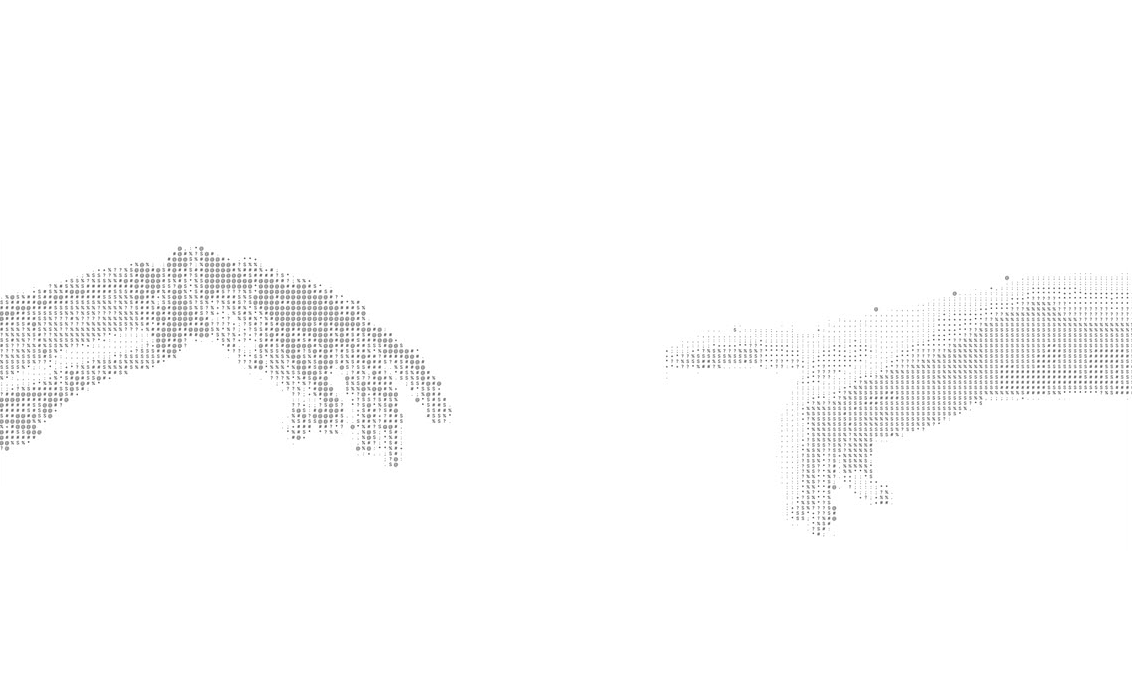
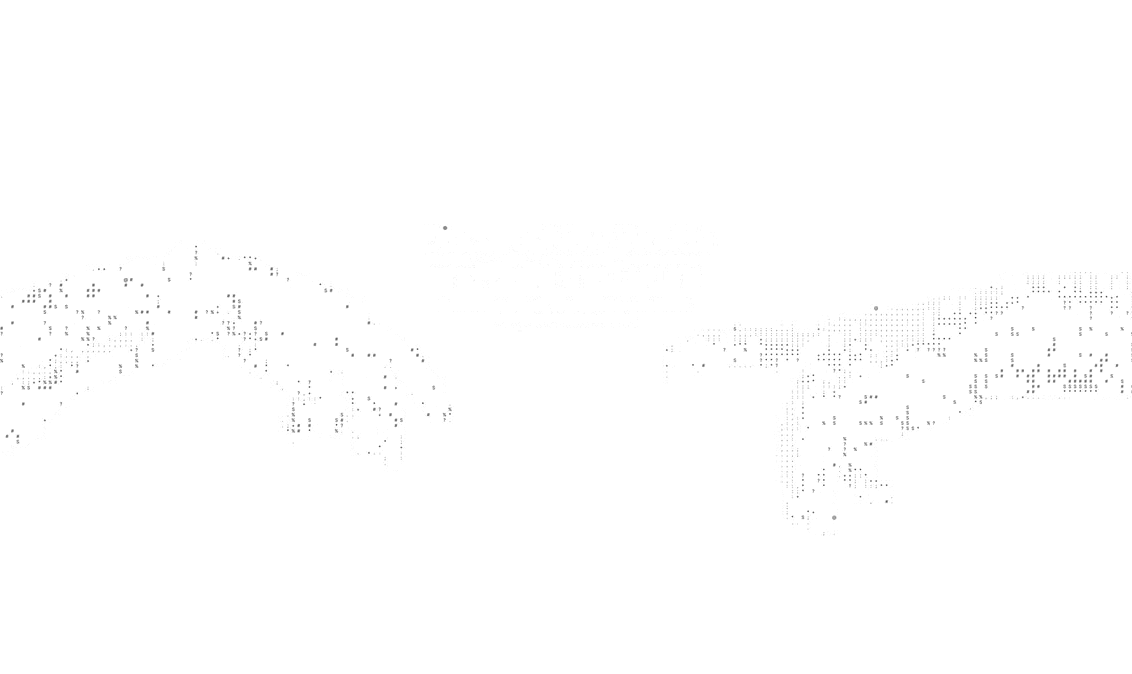
Fix hero artwork extraction and full-bleed placement

diff --git a/components/LandingHero.module.css b/components/LandingHero.module.css
@@ -26,8 +26,7 @@
   background-image: url('/images/claimtrail-hero-artwork.png');
   background-size: cover;
   background-repeat: no-repeat;
-  background-position: center;
-  opacity: 0.5;
+  background-position: center 48%;
 }
 
 /* A quiet clearing in the map, not a surface behind the heading. */
@@ -36,7 +35,7 @@
   z-index: -1;
   inset: 0;
   pointer-events: none;
-  background: radial-gradient(ellipse 48% 48% at 50% 48%, var(--landing-background) 30%, transparent 100%);
+  background: radial-gradient(ellipse 42% 40% at 50% 48%, var(--landing-background) 18%, transparent 100%);
 }
 
 .header {
@@ -172,8 +171,9 @@
   .mobileMenu .cta { margin-top: 8px; }
   .hero { padding: 100px 20px; }
   .supporting { max-width: 340px; margin-top: 22px; }
-  .map { background-position: 52% center; opacity: 0.36; }
-  .readability { background: radial-gradient(ellipse 90% 38% at 50% 48%, var(--landing-background) 25%, transparent 100%); }
+  /* Keep the whole map legible in portrait instead of magnifying a centre slice. */
+  .map { background-size: 126% auto; background-position: center 50%; }
+  .readability { background: radial-gradient(ellipse 94% 28% at 50% 48%, var(--landing-background) 28%, transparent 100%); }
 }
 
 @media (prefers-reduced-motion: reduce) { .cta { transition: none; } }

diff --git a/scripts/extract-hero-artwork.py b/scripts/extract-hero-artwork.py
@@ -1,35 +1,50 @@
-"""Extract the supplied reference artwork without synthesizing or redrawing dots.
+"""Extract the reference's dotted world map as a reusable background asset.
 
 Usage: python scripts/extract-hero-artwork.py path/to/reference.jpg
-Requires Pillow; used only for asset preparation, not by the application.
+Requires Pillow, NumPy and OpenCV; used only for asset preparation, not by the app.
+
+The reference is a screenshot containing a navbar, headline, button and footer.
+Its map is a field of small, mostly light dots. Connected-component filtering
+keeps those dots, drops lettering and controls, and leaves the original dot
+positions, texture, resolution and map geometry untouched. No dots are drawn.
 """
 
 from pathlib import Path
 import sys
-from PIL import Image, ImageDraw
 
+import cv2
+import numpy as np
+from PIL import Image
 
-source = Image.open(sys.argv[1]).convert("RGB")
+source = Image.open(sys.argv[1]).convert("L")
 if source.size != (1199, 781):
     raise SystemExit("Expected the original 1199 x 781 reference image.")
 
-# Crop away the reference's outer frame. Preserve the artwork at native size.
-art = source.crop((34, 55, 1166, 731))
-selection = Image.new("L", source.size, 0)
-draw = ImageDraw.Draw(selection)
-# These selections contain artwork only: no heading, button, logos or footer.
-draw.polygon([(34, 295), (260, 290), (410, 350), (500, 450),
-              (500, 540), (34, 540)], fill=255)
-draw.polygon([(690, 385), (800, 365), (980, 322), (1166, 322),
-              (1166, 605), (690, 605)], fill=255)
-selection = selection.crop((34, 55, 1166, 731))
+# The reference sits inside a light grey frame. Keep only its white interior.
+art = np.array(source.crop((34, 56, 1166, 730)))
+content = (art < 244).astype("uint8")
+count, labels, stats, _ = cv2.connectedComponentsWithStats(content, 8)
 
-# Unmatte the original monochrome pixels from their #f7f7f7 background.
-# The dot locations, antialiasing, native resolution and texture stay intact.
-alpha = art.convert("L").point(lambda value: max(0, round((247 - value) * 255 / 247)))
-alpha.paste(0, mask=selection.point(lambda value: 255 - value))
-result = Image.new("RGBA", art.size, (0, 0, 0, 0))
-result.putalpha(alpha)
+# Dots are tiny isolated marks. Text strokes, icons, rules and the button are
+# larger connected shapes, so they are excluded rather than painted over.
+dots = np.zeros_like(content)
+for index in range(1, count):
+    x, y, width, height, area = stats[index]
+    if area <= 60 and width <= 10 and height <= 10:
+        dots[labels == index] = 1
+
+# The map occupies the middle band. Clear incidental leftovers from the nav and
+# footer; no map artwork exists outside this range in the reference.
+dots[:180] = 0
+dots[600:] = 0
+
+# Unmatte the original grey pixels from the reference's #f7f7f7 paper. Dots
+# retain their own antialiasing and density, including the darker map marks.
+alpha = np.zeros(art.shape, dtype=np.float64)
+alpha[dots == 1] = np.clip((247.0 - art[dots == 1]) * 255.0 / 247.0, 0, 255)
+result = Image.new("RGBA", (art.shape[1], art.shape[0]), (0, 0, 0, 0))
+result.putalpha(Image.fromarray(alpha.astype("uint8")))
+
 destination = Path(__file__).resolve().parents[1] / "public" / "images" / "claimtrail-hero-artwork.png"
 destination.parent.mkdir(parents=True, exist_ok=True)
 result.save(destination, optimize=True)

diff --git a/docs/LANDING-PAGE.md b/docs/LANDING-PAGE.md
@@ -18,10 +18,10 @@ The supplied Axial.ai reference pins the direction: a spacious monochrome field,
 
 ## Asset provenance
 
-- **Asset:** `public/images/claimtrail-hero-artwork.png` (1132 × 676, transparent PNG).
+- **Asset:** `public/images/claimtrail-hero-artwork.png` (1132 × 674, transparent PNG).
 - **Source:** user-supplied 1199 × 781 Axial.ai reference, original filename `2f99c6b26a9cd5a378688ea670a384d6.jpg`.
-- **Method:** `scripts/extract-hero-artwork.py` crops out the frame, selects only the original artwork pixels and unmattes the light background into alpha. No reference text, logos, controls, footer, synthetic dots, AI generation or replacement world-map geometry is included.
-- Original dot positions, native pixel resolution and monochrome texture are retained. The browser scales and crops the image using `background-size: cover`; opacity and a central fade keep text legible.
+- **Method:** `scripts/extract-hero-artwork.py` crops out the frame and keeps the original map's small connected dot marks while excluding the reference's larger lettering, controls and footer. The light paper is unmatted into alpha; no dots are redrawn, generated or replaced.
+- Original dot positions, native pixel resolution, density and monochrome texture are retained at full opacity. The browser scales and crops the whole image using `background-size: cover` on desktop; portrait widths scale by width so the map is not magnified into an empty centre slice. A soft central fade keeps the headline legible.
 - The reference is user-provided; no separate license or redistribution rights are asserted.
 - The earlier `public/world-map.svg` remains untouched but is not used by this hero.
 
